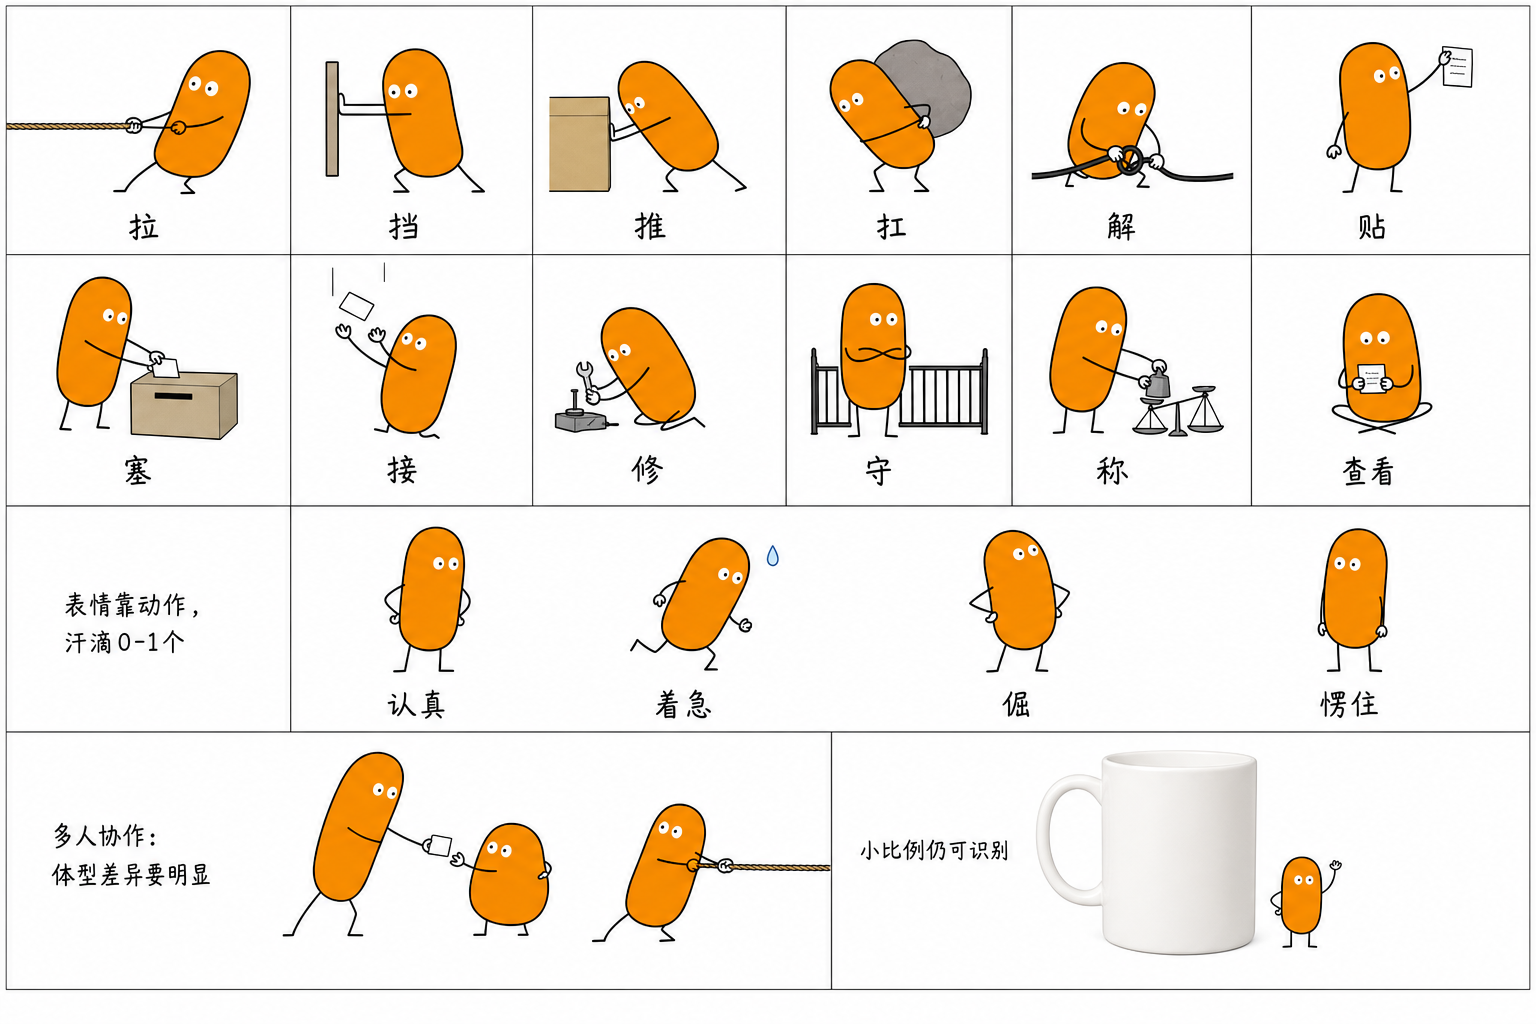
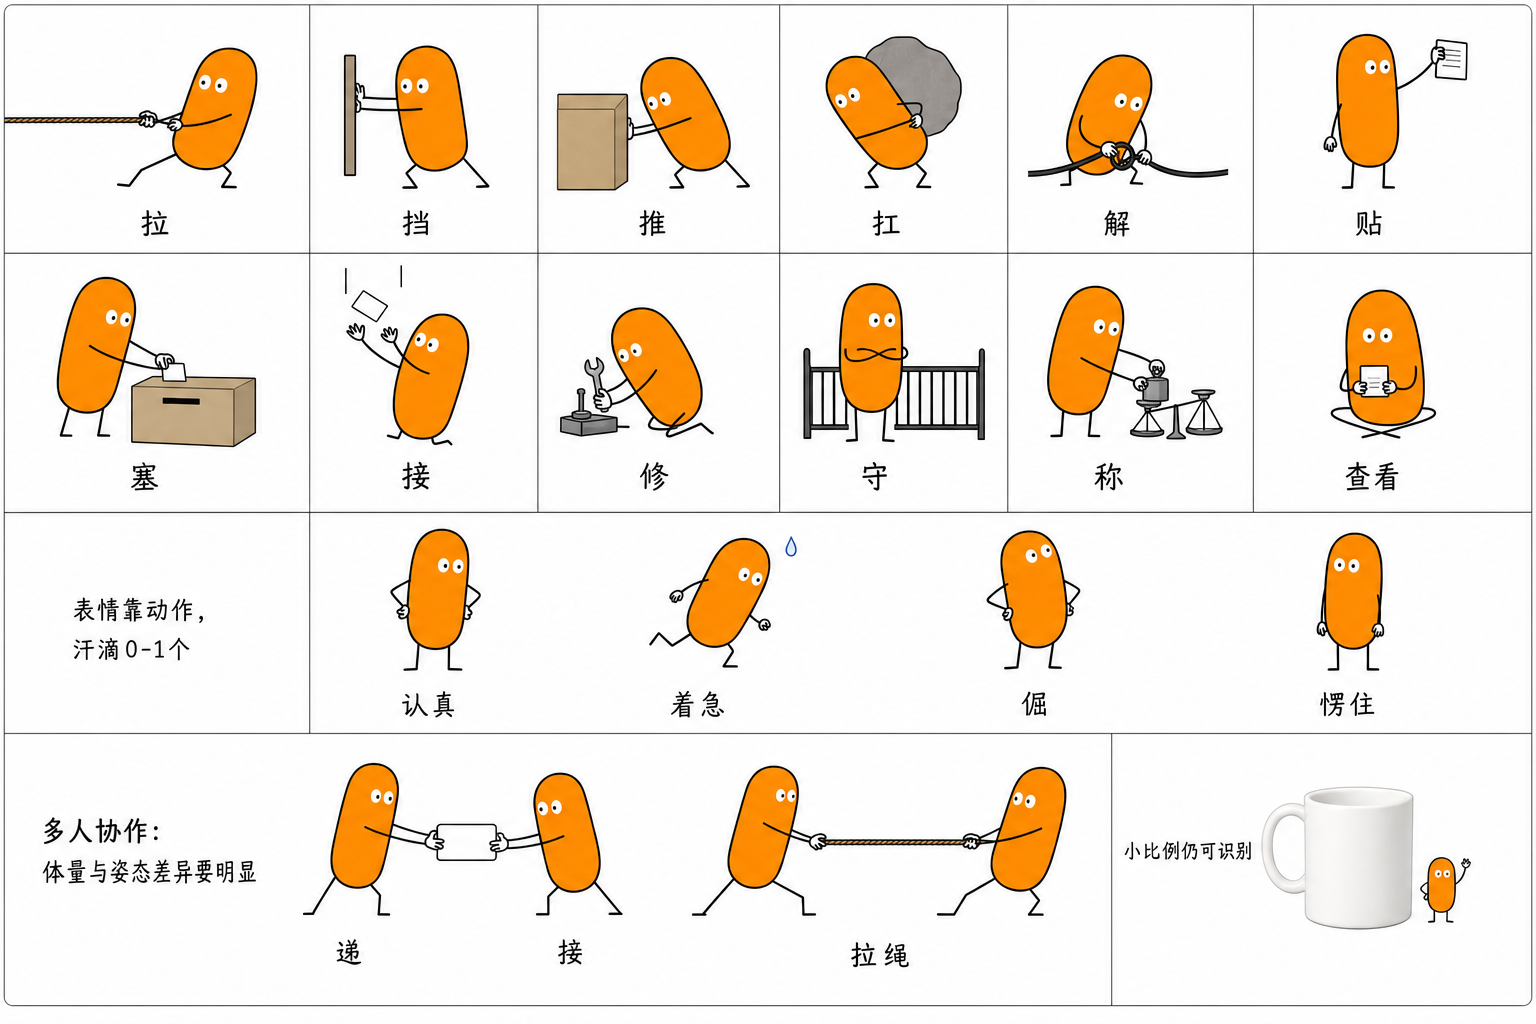
feat: 小石头多人协作手语与 K 歌动作校准定稿
更新 actions 金样与手脚/协作规则，新增手部与 K 歌专项校准图；四肢改为务实门禁，避免三接触逼出假肢。

diff --git a/scene-skill-core/ip-profiles/default-little-stone/character.md b/scene-skill-core/ip-profiles/default-little-stone/character.md
@@ -32,7 +32,7 @@
 | 眼与肢 | 白圆眼画法、2 臂 2 腿、锚点与线宽 | 臂/腿**姿态**（弯、伸、跑、蹲、扶） |
 | 气质 | 认真、靠谱、略笨、有点倔 | **费劲感** 0–1 汗滴；略卡壳/顶住的姿势 |
 | 叙事 | 承担**与锚定句相关**的核心动作 | 道具类型、标签文案、占画比例、朝向 |
-| 多人 | 同胶囊比例；差异来自分工 | 2–4 个体：站位、职责、所持物件 |
+| 多人 | 同胶囊比例；差异来自分工 + 手脚姿态 | 2–4 个体：站位、职责、所持物件、接触点 |
 
 **自适应原则（不要死板）**
 
@@ -181,7 +181,54 @@ Little Stone color lock:
 | flat 2D 简笔 | 标签 |
 | 细线肢体 | |
 
-多人 / 多 Agent / 团队协作场景允许 2-4 个小石头，但它们必须像同一 IP 家族里的不同个体：共享 **#f39800 平涂、相同胶囊宽高比、相同白圆眼画法、相同细线肢体语言**；只允许通过 **整体等比缩放（±10–15% 高度差）、角度、站位、动作职责** 拉开差异，**禁止**把 A 画成细长条、B 画成矮胖球、C 画成横扁椭圆；禁止复制粘贴平移。
+多人 / 多 Agent / 团队协作场景允许 2-4 个小石头，但它们必须像同一 IP 家族里的不同个体：共享 **#f39800 平涂、相同胶囊宽高比、相同白圆眼画法、相同细线肢体语言**；只允许通过 **整体等比缩放（±10–15% 高度差）、角度、站位、手脚姿态、动作职责** 拉开差异，**禁止**把 A 画成细长条、B 画成矮胖球、C 画成横扁椭圆；禁止复制粘贴平移。
+
+> **金样对齐**：`primary-character-actions.png` 多人协作格文案为「体量与姿态差异要明显」；手语为 **B 档简笔拟人**（细黑线小掌+2–3 短指）。手部/多人专项校准可加读 `assets/character/examples/calibrate-hands-multi.png`。
+
+### 多人协作精细锁（CRITICAL · 2+ 个小石头同图）
+
+| 维度 | 要求 | 禁止 |
+| --- | --- | --- |
+| 形体 | 同胶囊宽高比；高度差仅 ±10–15% | 瘦高条 / 矮胖球 / 横扁混用 |
+| 分工 | 每人一个清晰动词（递/接/拉/扶/贴/拦…） | 两人同姿站桩、无互动 |
+| 接触点 | 递接物停在**两人握持之间**；绳/线与臂线分离可数 | 物悬浮无握、绳粘成第三臂 |
+| 朝向 | 互动双方朝向共享物件或对方 | 背对背各干各的 |
+| 差异维度 | 至少拉开 3 项：缩放 / 倾斜 / 站位 / 手脚姿态 / 职责 / 道具 | 复制粘贴平移 |
+
+**互动母版（生成时选一并写清）**
+
+1. **递接（handoff）**：A 前倾递出、B 伸臂承接；卡/物在两握点中段；双方腿分前后略撑稳。
+2. **共拉（pull）**：身体明显后仰；双臂前伸握绳端；双脚前后或外八撑住；绳为独立细线，**手握住绳**（简笔掌+指），不得把绳画成第三臂。
+3. **一扶一做**：一侧短肢扶物/扶边，另一侧做主动作；扶点线连续、不断线悬浮。
+
+### 手脚末端精细锁（与 Limbs Lock 一并写入）
+
+手要**简笔拟人**：能看出「手在做事」，不是纯几何 C/环符号。臂仍是细黑线；末端升级为小掌 + 短指。
+
+| 动作 | 手末端（每臂 1 只简笔手） | 脚 / 站姿 |
+| --- | --- | --- |
+| 空闲 / 叉腰 | 小掌 + **2–3 短指**自然下垂或叉腰 | 双腿短 L 弯；重心可读 |
+| 挥手 / 指 / 拨 | 小掌 + 短指张开或食指方向可读 | 站稳即可 |
+| 握卡 / 递物 | 小掌托/捏卡缘，**拇指可相对**；指包住卡边 | 前后步或微屈一侧 |
+| 拉绳 / 握环 | 双手握住绳端（掌+指绕绳），绳继续延伸 | **外八或前后撑** |
+
+**手部定稿（拟人简笔）**
+
+- **要**：细黑线臂 → 末端**同线宽黑线**小掌 + **2–3 根短指**（可含拇指示意）；握物时指/掌与物件接触可读。
+- **对齐主设定**：挥手时可呈 2–3 个短指瓣（见 `primary-character-reference.png`），全批同一手语。
+- **不要**：白填充手套/肉掌、解剖五指写实手、指甲关节、3D 圆管肢、纯 C 钩/纯小环代替手（旧几何握法退役）、绳粘成第三臂。
+
+脚仍保持短 L / 下撇，不画脚趾鞋形（拟人重点在手）。
+
+Prompt 可复制（多人时追加）：
+
+```text
+Multi-Stone Coordination Lock:
+Same capsule aspect for every Stone; height scale ±10-15% ONLY — NOT skinny vs chubby body shapes.
+Each Stone has a distinct verb (hand-off / receive / pull / brace). Contact: shared prop between two grips; rope SEPARATE from arm lines.
+Hands (anthropomorphic mini): thin black arms end in a tiny palm + 2-3 short finger stubs (optional thumb); gripping cards/ropes with readable finger wrap — NOT bare C-hook/loop symbols, NOT realistic 5-finger anatomy, NOT thick gloves.
+Feet: short L-bend; pull/brace = wider planted stance. NO clone poses.
+```
 
 ## 2D Flat Lock + Limbs Lock
 
@@ -197,11 +244,11 @@ Little Stone color lock:
 - The orange body must be one uniform flat color block; even a subtle orange gradient, center highlight, rim shadow, or volume lighting is a failure
 
 Limbs Lock:
-- Exactly 2 arms + 2 legs per individual
-- Arms: one continuous thin black line from each upper-third lateral body side
-- Legs: one continuous thin black line from each bottom edge side or bottom center
-- Hand terminal: at most one simple grip (small circle / C-shape / line hook) per arm
-- Negative: extra arm, floating broken limb, forked fingers, rope-arrow merged into hand
+- Default: 2 arms + 2 legs per individual, continuous from correct anchors
+- Prefer readable grips (black-line mini palm + short fingers); allow natural two-handed work poses
+- Hard negative only: floating disconnected phantom hand/arm with no body attachment; same-side sprouted extra arm
+- Soft: do NOT force hip-akimbo + mic + screen three contact points (causes third-hand artifacts). Let lyric boards float when needed.
+- Soft negative: white mitten gloves, mouth/smile line — fix if easy; don't thrash whole sheet for finger perfection
 ```
 
 实物图里的真实物件可以有摄影棚光影，但小石头本体不能跟着变 3D。作者 persona 可以按模式使用不同渲染语言，但不能带偏小石头。
@@ -256,7 +303,36 @@ Little Stone proportion lock: vertical capsule aspect ~1:1.3–1:1.6; two flat w
 
 **概念动作（手绘 / 知识卡）**：画箭头、递模块、指向结构、拉线、贴标签、把卡塞进槽、标记风险
 
-**禁止默认**：放大镜、灯泡、纯站桩讲解、与锚定句无关的装饰姿态
+### K 歌 / 音乐娱乐动作（条件触发 · 非默认）
+
+仅当锚定句/用户明确涉及 **K 歌、点歌、麦克风、曲库、车载 K 歌、家庭开唱、合唱抢麦** 等时选用；**禁止**每张正文图默认塞麦或包厢。
+
+| 动词 | 姿态要点 | 典型物件（现代轻量） |
+| --- | --- | --- |
+| **握麦** | 单手持短柄无线麦，麦头朝上略偏；站稳或微倾 | 短柄圆润无线麦 |
+| **递麦 / 接麦** | 两人同胶囊比例；麦在两握点中段交接 | 双麦或单麦传递 |
+| **对麦 / 合唱** | 两人各持一麦，朝向共享节拍/歌单卡 | 双短柄麦 + 歌单卡 |
+| **点歌** | 指/按歌单卡或遥控器；另一手可扶卡 | 歌单卡、点歌遥控 |
+| **切歌** | 抽走旧歌单卡、推入「下一首」卡 | 歌单卡叠 |
+| **塞曲库** | 把曲库卡塞进盒/槽 | 曲库盒、新歌卡 |
+| **充麦** | 把麦立放/磁吸到充电座 | 磁吸充电座 + 短柄麦 |
+| **推音箱** | 双手推家用/车载小音箱就位 | 圆润 K 歌音箱 |
+| **打节拍** | 短指轻拍或打响指姿势（仍无嘴） | 可选铃鼓 |
+| **车载递麦** | 从杯架/扶手区递出麦（局部车内小现场） | 杯架 + 短柄麦 |
+
+**麦的画法（硬）**：现代短柄无线/便携 K 歌麦——圆润、哑光、细网罩、隐藏键；**禁止**复古舞台麦、头套麦、把麦画成小石头本体。手语仍走 B 档（细黑线小掌+短指握麦杆）。
+
+**四肢门禁（K 歌 / 复杂道具 · 务实版）**：
+- **硬禁（CRITICAL）**：悬浮断手、无臂连接的第三掌、同侧凭空多长一只臂——这是假肢伪影，必须返修。
+- **放宽（允许模型发挥）**：不再强制「闲置手必须叉腰」；双手都在做事时（握麦、扶卡、打节拍）即可，不要为了凑姿态再加第三接触点。
+- **多道具场景**（对麦+歌词屏等）：歌词牌/点歌屏优先**悬浮或单侧扶**，不要让每人都「叉腰 + 握麦 + 扶屏」三接触——那是三手高发配方。
+- 手指仍偏好细黑线小掌+短指；若模型画出可读握姿且无白手套假肢，可接受，**不要为指形反复重绘整表**。
+
+**仍禁止**：KTV 包厢实景、舞台灯效、房态巡检服务员叙事、真实品牌 Logo、点歌 App UI 截图。物件规则详见 `physical-object-patterns.md`。
+
+专项金样：`assets/character/examples/calibrate-karaoke-actions.png`（内容相关时加读；不替代主设定图）。
+
+**禁止默认**：放大镜、灯泡、纯站桩讲解、与锚定句无关的装饰姿态、无关内容硬塞麦克风/包厢
 
 ## 序列图导游（结构轴 = 路径 / 步骤序列时）
 
@@ -276,6 +352,8 @@ Little Stone proportion lock: vertical capsule aspect ~1:1.3–1:1.6; two flat w
 | --- | --- |
 | 默认 / 拿不准 | `assets/character/examples/physical/calibrate-object-scene.png` |
 | 多人协作 / Agent 分工 | `physical/calibrate-multi-agent.png` |
+| 手部拟人 / 递接拉绳手脚 | `examples/calibrate-hands-multi.png` |
+| K 歌 / 握麦点歌合唱 | `examples/calibrate-karaoke-actions.png`（仅内容相关） |
 | 白板 / 流程 / 拉线 | `handdrawn/calibrate-whiteboard.png` |
 | **雷石工牌 / AI native 员工** | `logo-safety.md` + 用户会话工牌参考（本地） |
 | 知识卡模块 | `knowledge-card/calibrate-knowledge-card.png` |
@@ -303,10 +381,10 @@ Scene accent colors (cobalt, tomato-red, lemon, soft pink) on objects and annota
 LOCK same capsule aspect ratio ~1:1.3–1:1.6 for every Little Stone in this image; scale ±10-15% height ONLY; NO skinny stick, NO fat ball, NO horizontal blob variants
 ```
 
-**有嘴 / 多手 / 锚点错**
+**有嘴 / 多手 / 锚点错 / 手脚末端糊**
 
 ```text
-NO mouth/teeth/lip line on capsule; exactly 2 arms from upper-third lateral sides + 2 legs from bottom edge; NO extra arm, NO forked fingers, NO rope-arrow merged into hand
+NO mouth/teeth/lip line on capsule; exactly 2 arms from upper-third lateral sides + 2 legs from bottom edge; NO extra arm, NO toes/shoes, NO rope-arrow merged into hand; hands = tiny palm + 2-3 finger stubs wrapping props (NOT bare C-hooks, NOT realistic anatomy); multi-Stone = distinct verbs + mid-point handoff contact
 ```
 
 **小比例远景丢识别点**
@@ -326,8 +404,10 @@ Even at ~10-20% frame width: keep #f39800 capsule silhouette, two white dot eyes
 - 道具显得老旧、复古、笨重、脏乱或舞台化；除非用户明确要求，不用年代感强、商业舞台感强或厚重脏乱的道具。
 - 删掉小石头后隐喻仍成立，说明它没有承担核心动作。
 - **多人形体比例漂移**：同图里胶囊宽高比不一致（瘦高 / 矮胖 / 横扁混用）——典型不合格，必须重生成。
+- **多人协作假互动**：两人同姿站桩、递接物无握点、绳与臂粘连、无前后撑姿——不合格。
 - **眼睛不合格**：眼距/大小批内不一致、anime 大眼、3D 反光眼、缺白圆或瞳孔画法不一。
 - **手臂/腿不合格**：断线悬浮、同侧双手、分叉指、绳线粘连成第三只手、从非锚点位置长出（头顶/眼下方/体中部横腿）。
+- **手脚末端不合格**：写实五指/厚手套；或仍用纯 C 钩/纯小环代替手；握物看不出掌指接触；鞋子轮廓；多人手语批内漂移。
 - **有嘴**：胶囊上出现嘴线、牙、唇形——直接不合格；情绪应靠动作与汗滴。
 - **四肢批内不一致**：同图/同批线宽、锚点高度、末端画法漂移。
 - **员工场景**：雷石员工画成 KTV 巡检/房态/递麦；或非员工场景误戴任何工牌；工牌比例过大。

diff --git a/scene-skill-core/references/common-character-lock.md b/scene-skill-core/references/common-character-lock.md
@@ -29,7 +29,7 @@
 
 - 主角色身体是否仍为平涂色块。
 - 眼睛和肢体是否仍是 profile 指定的平面风格。
-- 肢体数量是否正确：每个主角色只能有两只手臂、两条腿；不得出现重复手臂、分叉手、额外手指状线条，牵引线/绳子/箭头也不能被画成第三只手。
+- 肢体数量是否正确：每个主角色只能有两只手臂、两条腿；不得出现重复手臂、额外肢体；牵引线/绳子/箭头也不能被画成第三只手。手末端应为简笔拟人小掌+2–3 短指（见 `character.md`），不是纯几何符号。
 - 是否被真实物件、3D persona 或模型默认风格带成 3D。
 
 **维度锁具体内容**：见 `character.md` 的 “2D Flat Lock + Limbs Lock” 章节（唯一定义），本文件不重复。
@@ -63,7 +63,7 @@
 - 细黑线，禁止 3D 圆管
 - 无嘴（情绪靠动作+汗滴）
 
-多人 / 同批图：四肢 **线宽、锚点高度带、末端画法** 全批一致；差异只来自动作姿态，不换线质或锚点规则。
+多人 / 同批图：四肢 **线宽、锚点高度带、末端画法** 全批一致；差异只来自动作姿态，不换线质或锚点规则。2+ 个小石头时另写 **Multi-Stone Coordination Lock**（分工动词 + 接触点 + 手脚末端匹配动作），见 `character.md`。
 
 ## Persona 特征稳定锁 + 表情锁（生成前必写）
 
@@ -135,7 +135,7 @@
 
 | # | 检查 | PASS 条件 | 容忍度 | 典型 FAIL |
 | --- | --- | --- | --- | --- |
-| **L1** | **计数** | 每个体恰好 2 臂 + 2 腿 | 无容忍 | 同侧双手、第三只手、腿数错 |
+| **L1** | **计数** | 每个体 2 臂 + 2 腿；臂从正确锚点连续 | **硬禁**悬浮断手/无连接第三臂；不因「未叉腰」判 FAIL | 悬浮假肢、同侧凭空多臂、腿数错 |
 | **E1** | **眼睛** | 两只白圆眼 | 直径 10-20% 体宽 | anime 大眼、单眼、3D 反光眼 |
 | **E2** | **无嘴** | 胶囊上无嘴线/牙/唇形 | 无容忍 | 有嘴线、笑脸、表情符号 |
 
@@ -145,7 +145,8 @@
 | --- | --- | --- | --- | --- |
 | **L2** | **锚点** | 臂从体侧上 1/3、腿从底缘 | 臂：上 1/4-2/5（25-40%） | 断线悬浮、锚点过低/过高 |
 | **L3** | **线质** | 细黑线、与 ref 同级线宽 | ±20% 线宽波动 | 粗臂、3D 圆管、批内不一 |
-| **L4** | **末端** | 每臂 ≤1 个简化握持 | 小圆/C形/线钩 | 分叉指、额外小手、绳线粘连 |
+| **L4** | **末端** | 握姿可读（偏好细黑线小掌+短指） | 复杂动作允许自然简化 | 悬浮假肢；白手套假肢可修但不强求指形完美 |
+| **L7** | **协作接触**（2+ 体） | 共享物在两握点之间；每人独立动词；撑姿可读 | 接触清晰即可 | 假互动、同姿克隆、物悬浮无握 |
 
 #### Tier 3: NICE-TO-HAVE（建议优化）
 
@@ -256,9 +257,11 @@
 - **数量**：每侧**恰好一条**臂 + 每侧**恰好一条**腿（或底缘正中双足布局）；牵引线 / 绳子 / 箭头不得与手臂粘连成第三只手。
 - **臂锚点**：体侧 **上 1/3 高度带** 连续伸出；**禁止**断线悬浮、从头顶/眼睛下/底缘乱长。
 - **腿锚点**：底缘左右或正中连续向下；**禁止**从体中部横出、悬浮断腿。
-- **线宽与末端**：与 reference 同级细黑线，批内一致；末端仅小圆 / C 形 / 单线钩；**禁止粗臂、3D 圆管、分叉指、额外小手**。
+- **线宽与末端**：与 reference 同级细黑线，批内一致；末端为**简笔拟人手**（小掌+2–3 短指，可含拇指示意），握卡/拉绳时指掌包住物件；**禁止粗臂、3D 圆管、写实五指、厚手套、纯 C/环代手、脚趾/鞋形**。
+- **脚与重心**：站姿短 L 弯或下撇；拉/撑时加宽站距，一腿更直承重；前倾递物时对侧腿可微屈反撑。
 - **无嘴**：小石头不靠嘴表达情绪；有嘴线即 FAIL。
 - **动作**：臂必须参与递 / 接 / 贴 / 拉等叙事；腿参与站 / 跑 / 撑 / 踢等；禁止纯装饰站桩（装饰性测试仍适用）。
+- **多人**：每人独立动词 + 共享接触点（见 `character.md` 多人协作精细锁）；禁止同姿克隆。
 
 ## 必须承担动作
 

diff --git a/scene-skill-core/QUICK-START.md b/scene-skill-core/QUICK-START.md
@@ -221,6 +221,7 @@ references/persona-quick-checklist.md
 - L1 计数：每个体恰好 2 臂 + 2 腿
 - L2 锚点：臂从体侧上 1/3、腿从底缘连续向下
 - E1 眼睛：两只白圆眼、批内一致
+- **多人时**：同胶囊比例（只许整体缩放 ±10–15%）；每人独立动词；递接物在两握点之间；手=简笔拟人小掌+2–3 短指（握物可读）——详见 `character.md`
 
 **老杨 CRITICAL 项**（双 IP / 小剧场时）：
 - P1 眼镜：大镜片浅灰细框（非粗黑框）
@@ -275,6 +276,12 @@ references/persona-quick-checklist.md
 | 猫不够金黄 / 灰虎斑 | ❌ 必须金黄金渐层英短 |
 | 方法论知识卡只有老杨+文字 | ❌ 必须安排小石头执行分工 |
 | 老杨漂成 ~175 / 短腿敦实 | ❌ 全身必写 Height Lock 183+4:6；加传 handdrawn-body；P12 FAIL 必返修 |
+| 多人瘦高+矮胖混用 / 假互动 | ❌ 同胶囊比例只许缩放；每人独立动词；递接物在两握点间；手脚末端按动作选型 |
+| 手太抽象（纯 C/环）或写实五指 | ❌ 简笔拟人手：小掌+2–3 短指；绳与臂分笔 |
+| 无关内容硬塞麦/包厢 | ❌ K 歌动作仅内容相关；加读 calibrate-karaoke-actions |
+| K 歌画成舞台麦/巡检递麦 | ❌ 现代短柄无线麦 + 握麦/点歌/合唱等执行动作 |
+| 悬浮断手 / 无连接假肢 | ❌ L1 硬禁；对麦合唱让歌词屏悬浮，勿叉腰+握麦+扶屏三接触 |
+| 为凑双手反复重绘指形 | ⚠️ 放宽：可读握姿可接受；优先自然动作，勿过度清点手数 |
 
 ---
 

diff --git a/scene-skill-core/ip-profiles/default-little-stone/assets/character/examples/README.md b/scene-skill-core/ip-profiles/default-little-stone/assets/character/examples/README.md
@@ -12,6 +12,8 @@
 | --- | --- |
 | 默认 / 拿不准 | `physical/calibrate-object-scene.png` |
 | 多人协作 / Agent 分工 | `physical/calibrate-multi-agent.png` |
+| **手部拟人 / 多人递接拉绳** | `calibrate-hands-multi.png`（B 档：细黑线小掌+2–3 短指） |
+| **K 歌 / 握麦点歌合唱**（内容相关时） | `calibrate-karaoke-actions.png` |
 | 白板 / 流程 / 拉线 | `handdrawn/calibrate-whiteboard.png` |
 | 知识卡模块 | `knowledge-card/calibrate-knowledge-card.png` |
 | **雷石工牌 / AI native 员工** | `logo-safety.md` + 用户会话工牌参考（本地） |
@@ -22,9 +24,11 @@
 | 需求 | 优先加读 |
 | --- | --- |
 | 复杂姿态 / 小比例 / 多人形体 | `../primary-character-actions.png` |
+| 手漂回纯 C 钩/白手套，或多人假互动 | `calibrate-hands-multi.png` |
+| K 歌动作漂成舞台麦/包厢巡检/无握姿 | `calibrate-karaoke-actions.png` |
 | 画风里身份仍不像（颜色/平面感对但形漂） | 本目录 calibrate **1 张** |
 | 两者都需要 | actions + calibrate 各 1 张（设定图仍必传） |
 
 完整规则见 `character.md`「校准图决策」与「迭代 palette」。
 
-`v1.1` · 2026-07-14
+`v1.6` · 2026-07-16 · K 歌校准务实版：禁悬浮假肢；多道具勿三接触；允许自然发挥

diff --git a/scene-skill-core/references/common-qa-repair.md b/scene-skill-core/references/common-qa-repair.md
@@ -42,6 +42,11 @@ persona出镜时单独判断一次：去掉persona，画面核心冲突是否仍
 | 多人形体不一样 / A 瘦 B 胖 | 强制形体一致锁：全批相同胶囊宽高比，只允许整体等比缩放 ±10–15%；重写 prompt 禁止 fat/thin/wide 变异词 |
 | 眼睛不对 / 眼距怪 / 不像 ref | 对照 reference 重写 Eyes Lock：两只白圆、直径 12–18% 体宽、间距 1.2–1.8 眼径；批内一致 |
 | 手臂断 / 多手 / 腿锚点错 | 重写 Limbs Lock：2 臂 2 腿；臂从体侧上 1/3、腿从底缘连续；数线条做 L1–L4 快检后重生成 |
+| 手脚太抽象 / 纯 C 钩小环 / 写实五指 | 改为简笔拟人手：小掌+2–3 短指握物；禁纯几何代手、禁解剖五指/厚手套；对照 `character.md` 手脚末端精细锁 |
+| 悬浮断手 / 无臂连接的第三掌 | **L1 FAIL**：删假肢；简化接触点（歌词屏改悬浮，勿叉腰+握麦+扶屏三接触） |
+| 对麦合唱三手高发 | 放宽：每人只需握麦；歌词牌悬浮或由一侧轻扶；不要强制闲置手叉腰 |
+| 白手套 / 指形不完美 | Tier 2：可读握姿可接受；勿为指形反复重绘整表 |
+| 多人假互动 / 递接无握点 / 同姿克隆 | 写 Multi-Stone Coordination Lock：每人独立动词；物在两握点中段；拉绳时绳与臂分离 + 外八撑姿；禁改胖瘦体型 |
 | 小石头有嘴 / 用嘴表达情绪 | 加 Negative: no mouth on capsule；情绪改汗滴/倾斜/动作；见 `character.md` 迭代 palette |
 | 小石头 3D / 渐变 / 多人比例不一 | 见 `character.md`「迭代 palette」对应段落 |
 | 员工 / 工牌误用 | `character.md` 雷石员工 + `logo-safety.md` |

diff --git a/scene-skill-core/references/common-generation-templates.md b/scene-skill-core/references/common-generation-templates.md
@@ -33,7 +33,7 @@ Negative: no 3D mascot, no emoji 3D, no blind-box figure, no inflatable toy, no 
 ```text
 Limbs Lock for the profile main character ONLY:
 Exactly 2 arms + 2 legs per individual. Each arm = one continuous thin black line from upper-third lateral body side. Each leg = one continuous thin black line from bottom edge (left/right or center). At most one simple hand terminal per arm (small circle / C-grip / line hook). No mouth, no teeth, no lip line on the capsule — emotion via pose and 0-1 sweat only. Rope/arrow/tether must NOT merge into an extra hand.
-Negative limbs: extra arm, floating broken limb, forked fingers, thick 3D tube limbs, mouth on capsule.
+Negative limbs: extra arm, floating broken limb, thick 3D tube limbs, realistic 5-finger hands, bare C-hook/loop replacing hands, mouth on capsule. Hands = tiny palm + 2-3 finger stubs.
 ```
 
 共同约束：

diff --git a/scene-skill-core/references/persona-quick-checklist.md b/scene-skill-core/references/persona-quick-checklist.md
@@ -148,7 +148,9 @@ Negative: toothy smile, exaggerated laugh, back view, old lady silhouette
 **小石头 L1-L4 + E1-E2 快检**（见 `common-character-lock.md`）：
 - L1 计数：每体 2 臂 + 2 腿
 - L2 锚点：臂从体侧上 1/3、腿从底缘连续
+- L4 手末端：握姿可读即可（偏好细黑线小掌+短指）；硬禁悬浮假肢，不因未叉腰判 FAIL
 - E1 眼睛：两只白圆眼、批内一致
+- 2+ 体时加 L7：独立动词 + 共享接触点；多道具勿三接触；禁同姿克隆 / 禁改胖瘦体型
 
 ### 交付确认
 ```text